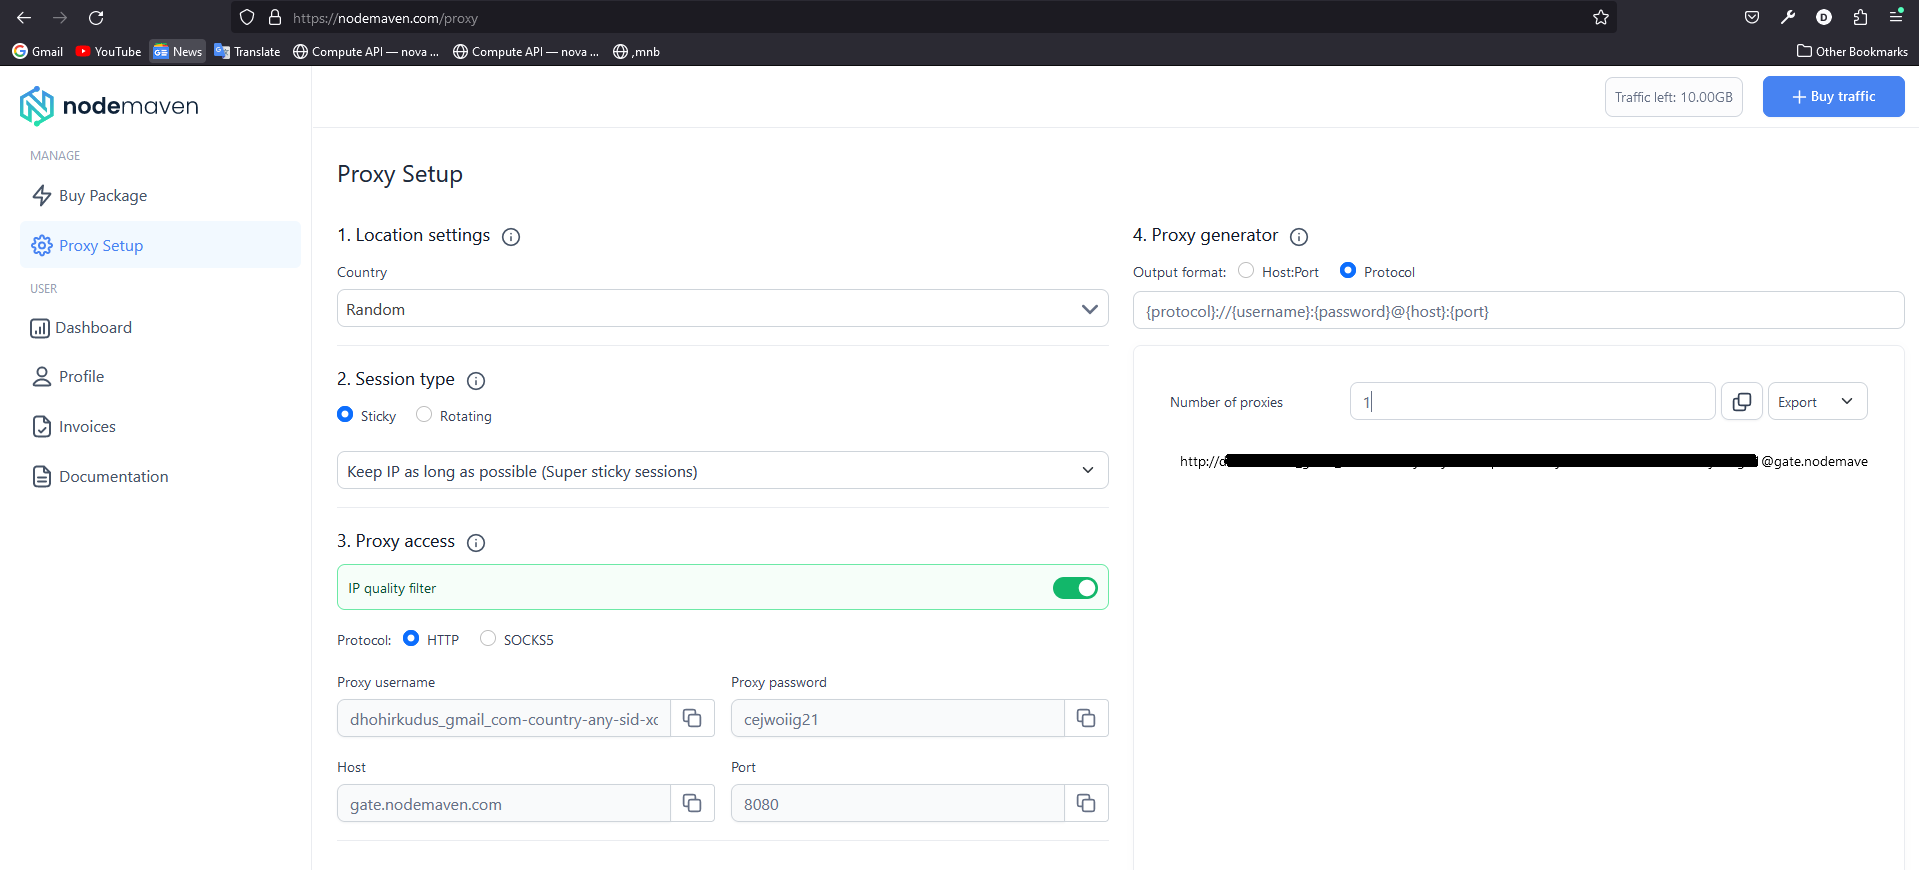
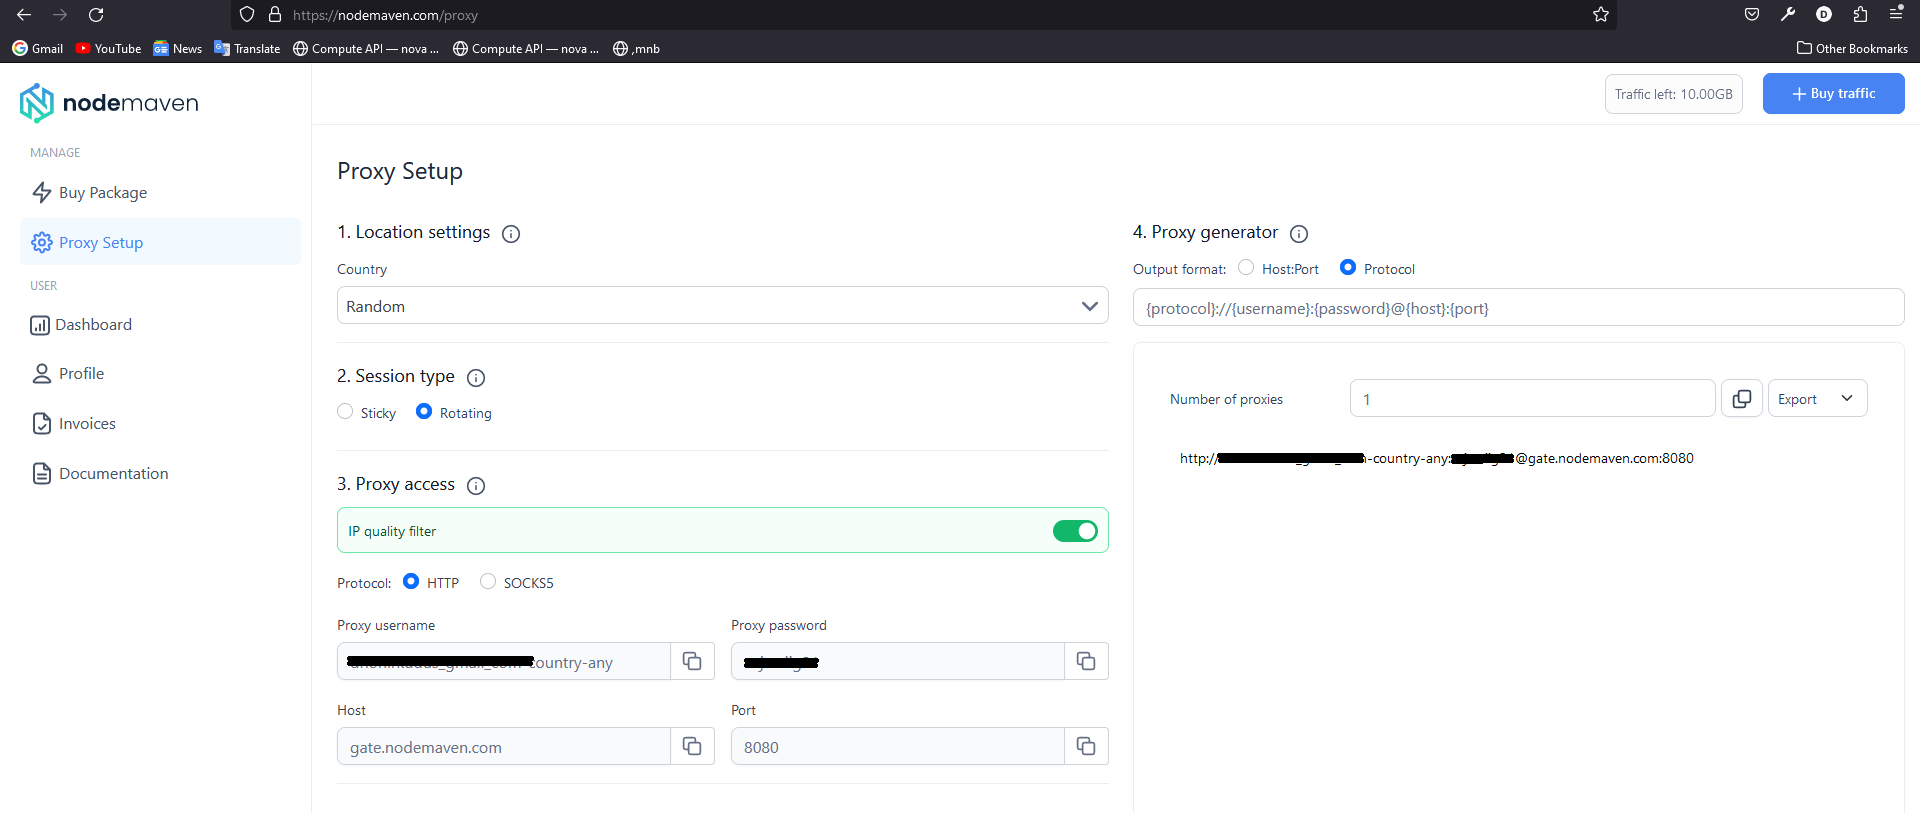
update 5 files and create 2 files

diff --git a/function/__init__.py b/function/__init__.py
@@ -16,46 +16,54 @@ months = (
     "December",
 )
 
-api = create_session()
-
 
 def update_name():
-    d = datetime.now()
-    # timezone gmt +7
-    d_gmt_plus_7 = d + timedelta(hours=7)
+    try:
+        api = create_session()
+        d = datetime.now()
+        # timezone gmt +7
+        d_gmt_plus_7 = d + timedelta(hours=7)
 
-    d_dd_month_yyyy = d_gmt_plus_7.strftime("%d %B %Y")
+        d_dd_month_yyyy = d_gmt_plus_7.strftime("%d %B %Y")
 
-    d_indonesia = d_dd_month_yyyy.replace(
-        d_gmt_plus_7.strftime("%B"),
-        months[int(d_gmt_plus_7.strftime("%m")) - 1],
-    )
+        d_indonesia = d_dd_month_yyyy.replace(
+            d_gmt_plus_7.strftime("%B"),
+            months[int(d_gmt_plus_7.strftime("%m")) - 1],
+        )
 
-    # twitter_icon = ""
-    calendar_emoticon = "🗓"
+        # twitter_icon = ""
+        calendar_emoticon = "🗓"
 
-    name = calendar_emoticon + " " + d_indonesia
-    api.update_profile(name=name)
+        name = calendar_emoticon + " " + d_indonesia
+        api.update_profile(name=name)
+        print("Updated name successfully")
+    except Exception as e:
+        print("Update name failed:", str(e))
 
 
 def update_banner():
-    days = (
-        "sunday",
-        "monday",
-        "tuesday",
-        "wednesday",
-        "thursday",
-        "friday",
-        "saturday",
-    )
-    now = datetime.now()
+    try:
+        api = create_session()
+        days = (
+            "sunday",
+            "monday",
+            "tuesday",
+            "wednesday",
+            "thursday",
+            "friday",
+            "saturday",
+        )
+        now = datetime.now()
 
-    now_my_time = now + timedelta(hours=7)
+        now_my_time = now + timedelta(hours=7)
 
-    # if gmt -7
-    # now_my_time = now - timedelta(hours=7)
+        # if gmt -7
+        # now_my_time = now - timedelta(hours=7)
 
-    # get day
-    day = days[now_my_time.weekday()]
-    print("Day: ", day)
-    api.update_profile_banner(f"banner/{day}.jpg")
+        # get day
+        day = days[now_my_time.weekday()]
+        print("Day: ", day)
+        api.update_profile_banner(f"banner/{day}.jpg")
+        print("Updated banner successfully")
+    except Exception as e:
+        print("Update banner failed:", str(e))

diff --git a/session/__init__.py b/session/__init__.py
@@ -26,6 +26,7 @@ if not NODEMAVEN_PROXY:
 
 
 def create_session():
+    print("Creating session...")
     try:
         # authentication
         auth = tweepy.OAuth1UserHandler(API_KEY, API_SECRET)

diff --git a/app.py b/app.py
@@ -15,5 +15,5 @@ def delay():
 if __name__ == "__main__":
     update_name()
 
-    # delay()
-    # update_banner()
+    delay()
+    update_banner()

diff --git a/README.md b/README.md
@@ -1,3 +1,5 @@
+<img src="screenshot/twitter_profile.png" alt="Twitter Profile" width=900 />
+
 ## Overview
 
 <table>
@@ -34,7 +36,7 @@
     </tr>
 </table>
 
-## APPROACH 1. Obtain Twitter API keys and tokens
+## APPROACH 1. Obtain Twitter API Keys and Tokens
 
 ### Twitter Developer
 
@@ -77,6 +79,8 @@ To obtain API keys and tokens for Twitter Developer:
 3. **Generate Access Token and Access Token Secret:**
    - Scroll down to the "Access token & access token secret" section.
    - Click on the "Create" button to generate your access token and access token secret.
+
+<img src="screenshot/twitter_developer_portal.png" alt="Twitter Developer Portal" width=900 />
 
 ## APPROACH 2. Python Programming Language
 
@@ -272,3 +276,5 @@ As you can conclude from the table above, **Rotating Private/Dedicated Proxies**
 </table>
 
 I created twitter automation using [NodeMaven](https://nodemaven.com/?a_aid=dhohirpradana), and so far it works well and stable.
+
+<img src="screenshot/nodemaven_proxy.png" alt="Nodemaven" width=900 />
